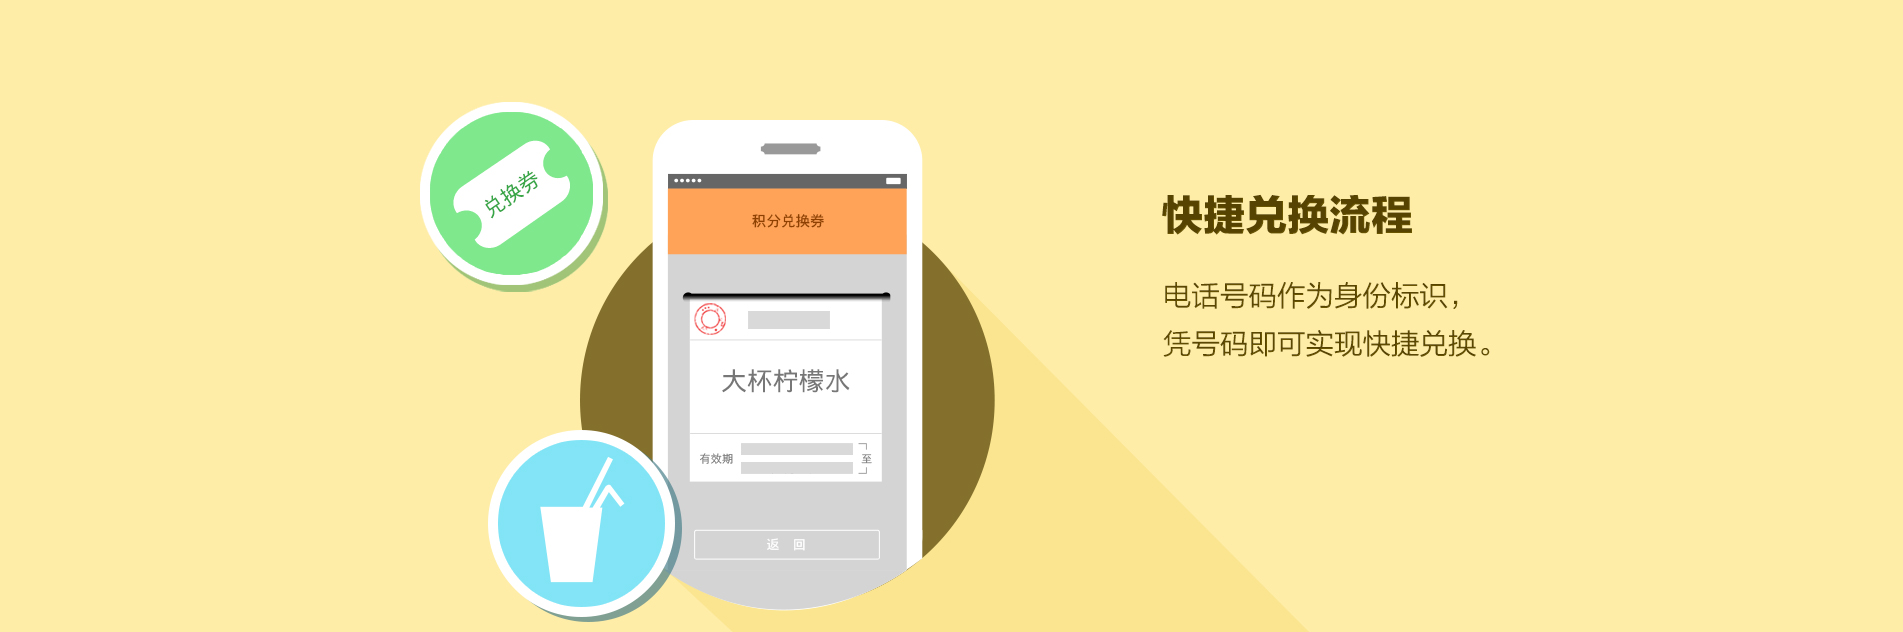
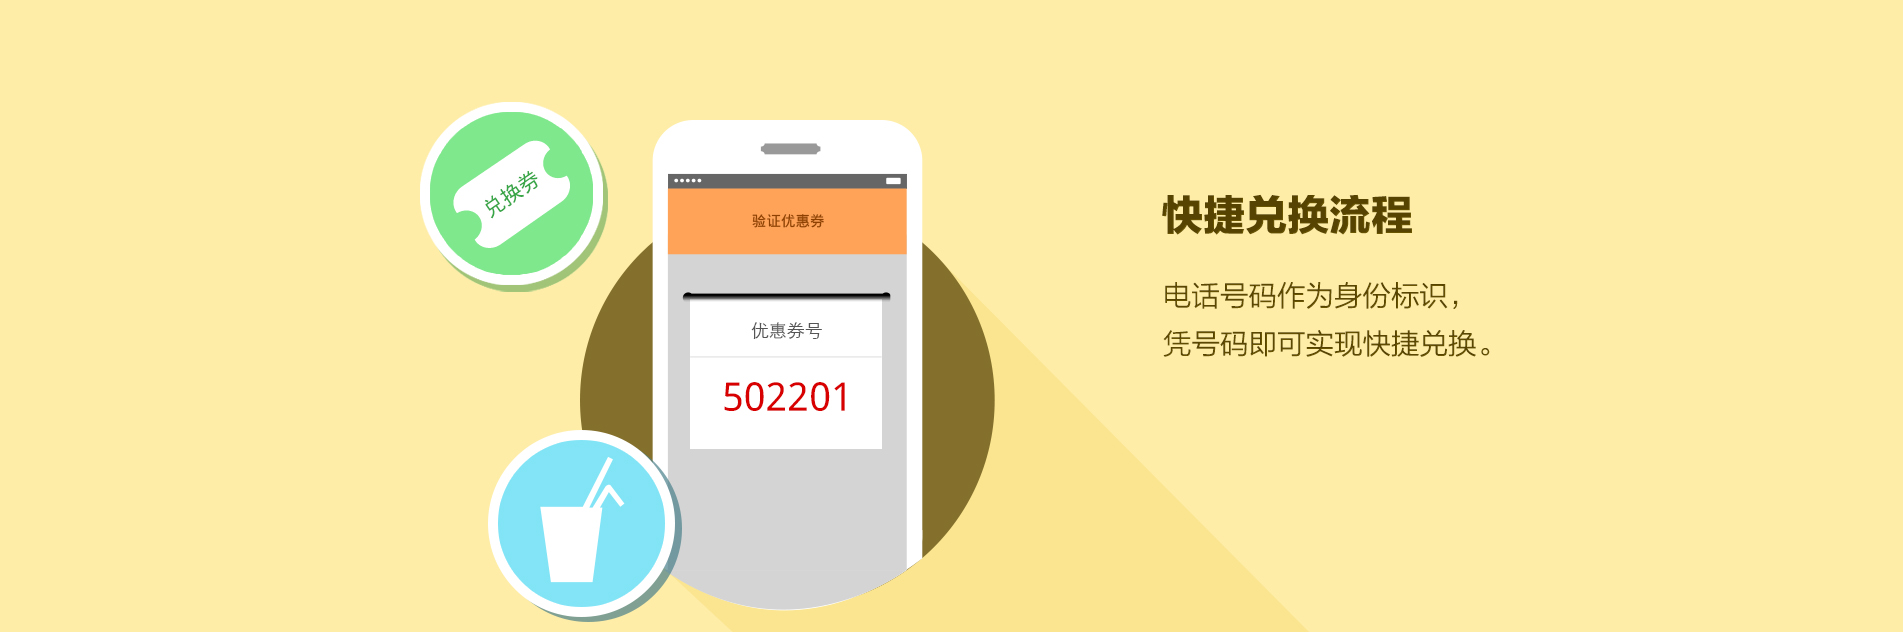
修改斑点狗title，更换首页配图。
修改斑点狗title，改成斑点狗。
更换首页配图。

diff --git a/bdg/index.html b/bdg/index.html
@@ -2,14 +2,14 @@
 <html xmlns="http://www.w3.org/1999/xhtml">
 <head>
 <meta http-equiv="Content-Type" content="text/html; charset=utf-8" />
-<title>斑点狗手机客户平台</title>
+<title>斑点狗</title>
 <link type="text/css" href="css/css.css" rel="stylesheet" />
 </head>
 
 <body>
 <div class="header">
                     <div class="hd_box">
-                                    <div class="logs"><a title="斑点狗手机客户平台" class="logo"></a><h1>斑点狗手机客户平台</h1></div>
+                                    <div class="logs"><a title="斑点狗" class="logo"></a><h1>斑点狗</h1></div>
                                     <div class="nav">
                                                     <ul>
                                                     <li><a href="index.html" class="hov">用户版</a></li>

diff --git a/bdg/shop.html b/bdg/shop.html
@@ -2,14 +2,14 @@
 <html xmlns="http://www.w3.org/1999/xhtml">
 <head>
 <meta http-equiv="Content-Type" content="text/html; charset=utf-8" />
-<title>斑点狗手机客户平台</title>
+<title>斑点狗</title>
 <link type="text/css" href="css/css.css" rel="stylesheet" />
 </head>
 
 <body>
 <div class="header">
                     <div class="hd_box">
-                                    <div class="logs"><a title="斑点狗手机客户平台" class="logo"></a><h1>斑点狗手机客户平台</h1></div>
+                                    <div class="logs"><a title="斑点狗" class="logo"></a><h1>斑点狗</h1></div>
                                     <div class="nav">
                                                     <ul>
                                                     <li><a href="index.html">用户版</a></li>
